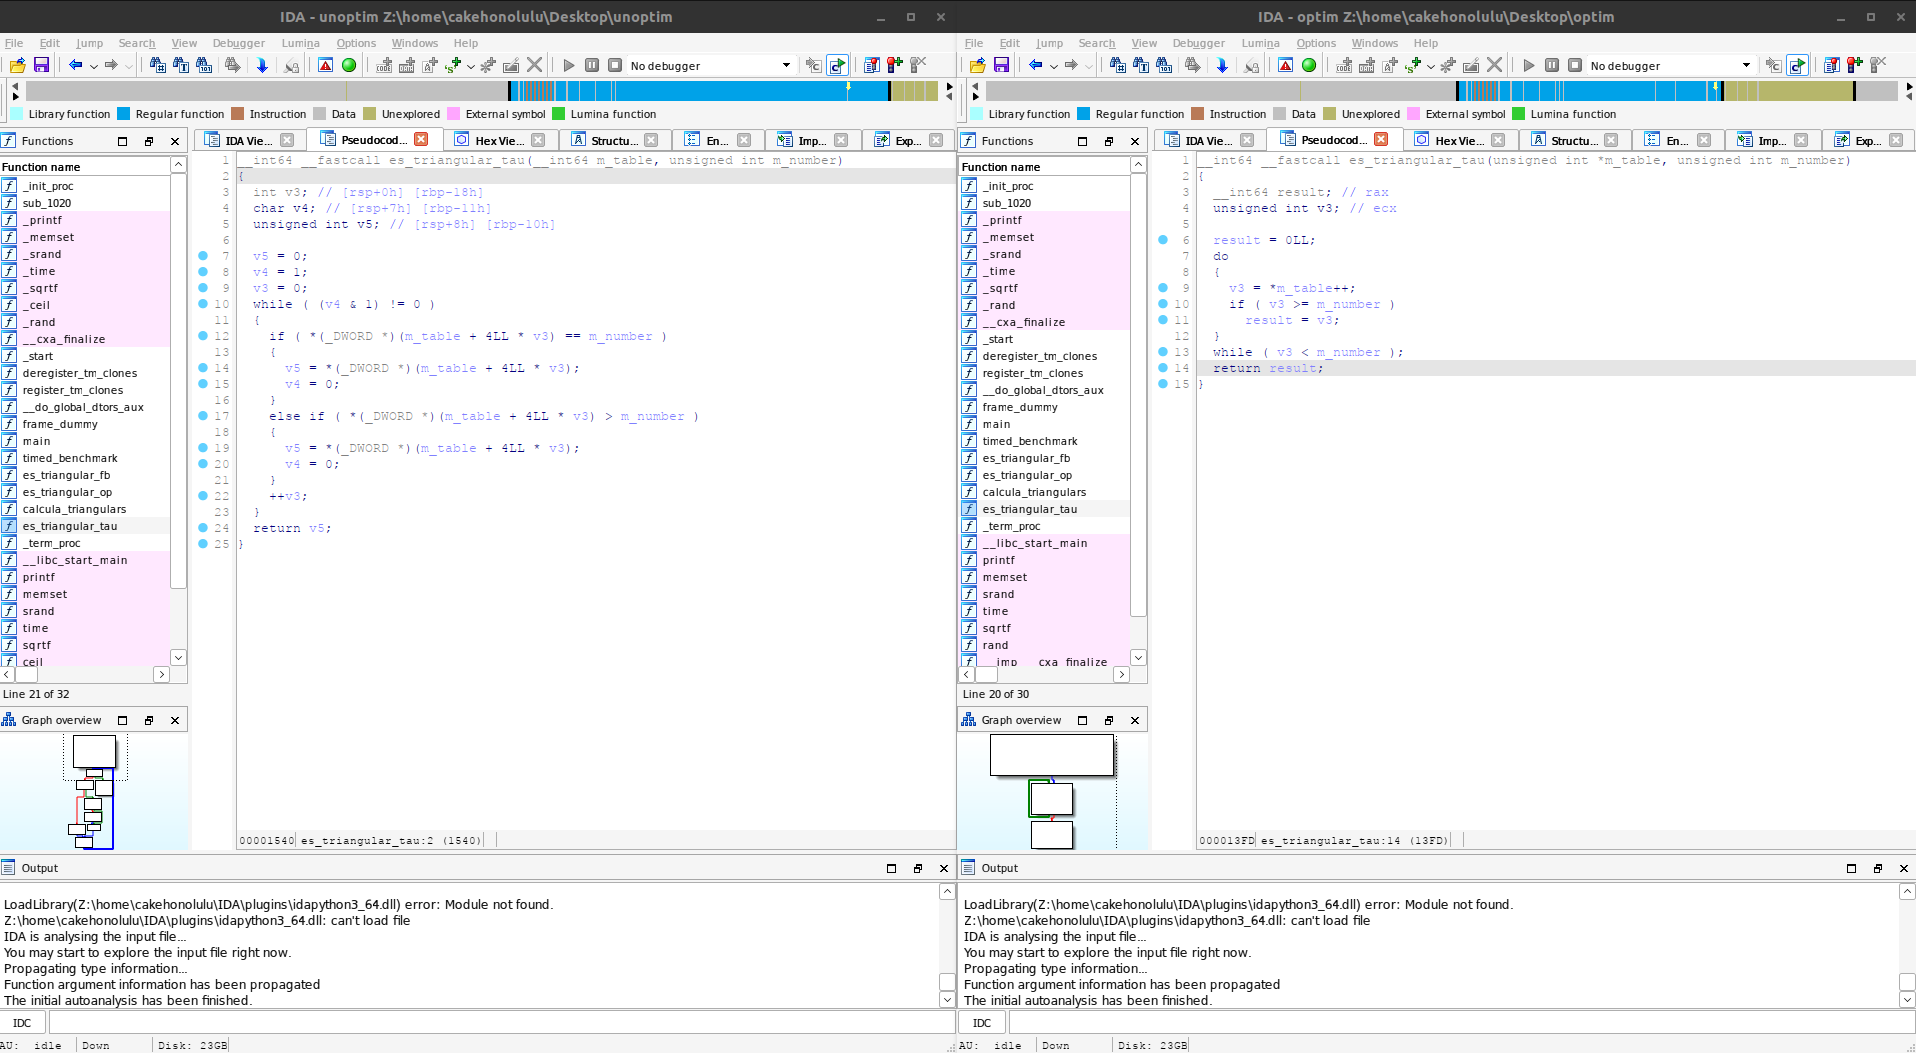
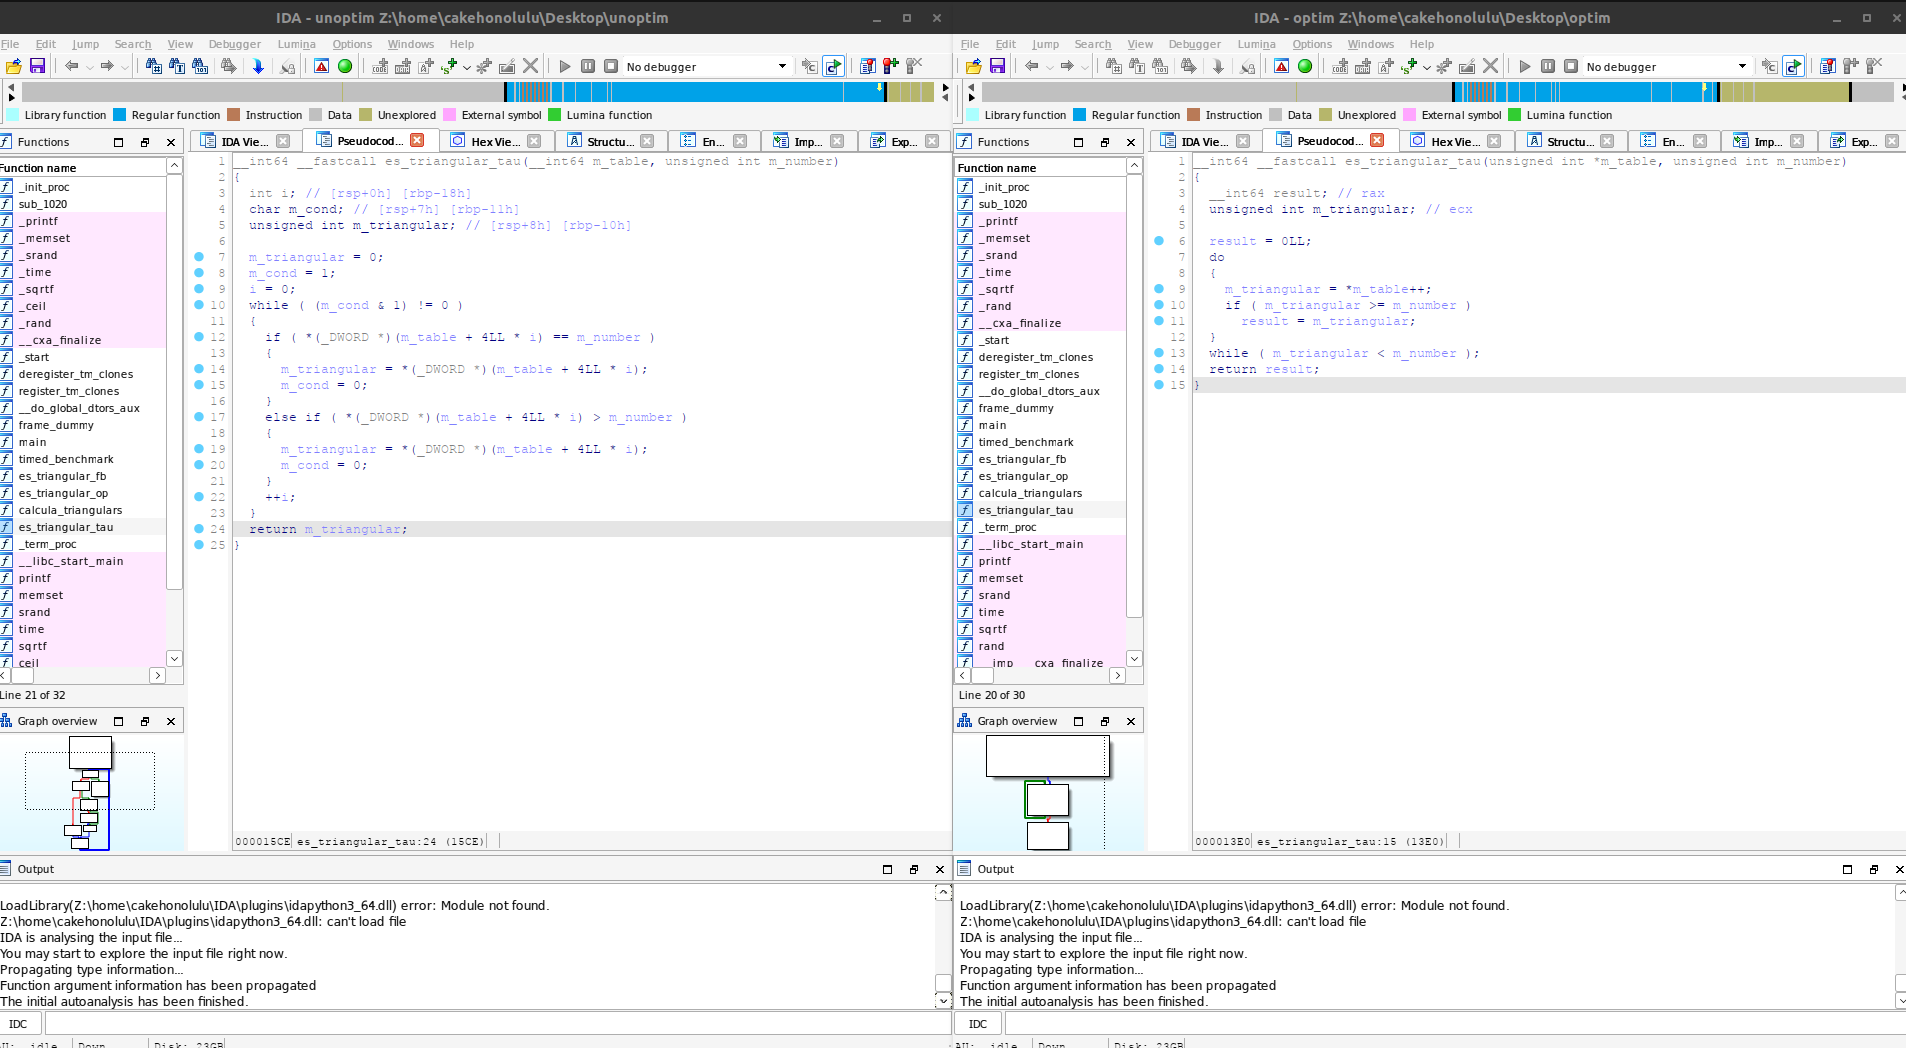
FProgII/L3-4: Unsquashed

Changed region(s): [[0.0, 0.0, 1.0, 1.0], [0.9906, 0.0, 1.0, 0.0305], [0.0929, 0.6107, 0.1238, 0.6412]]

diff --git a/FProgII/L3-4/lab2fp34.c b/FProgII/L3-4/lab2fp34.c
@@ -36,6 +36,7 @@ but this is probably going to be compiled on an older (And non-clang) compiler s
 int main()
 {
 #ifdef BENCHMARK
+	int i = 0;
 #ifdef EXTERNAL_TIME
 #ifdef TABLE
 	unsigned int m_table[P] = {0};
@@ -79,7 +80,7 @@ int main()
 #else
 
 #ifdef BRUTEFORCE
-	for (int i = 0; i < N_VEGADES; i++)
+	for (i = 0; i < N_VEGADES; i++)
 	{
 		srand(time(0));
 		es_triangular_fb(rand() % ((UINT32_MAX + 1) - 1) + 1);
@@ -87,7 +88,7 @@ int main()
 #endif
 
 #ifdef OPTIMAL
-	for (int i = 0; i < N_VEGADES; i++)
+	for (i = 0; i < N_VEGADES; i++)
 	{
 		srand(time(0));
 		es_triangular_op(rand() % ((UINT32_MAX + 1) - 1) + 1);
@@ -97,7 +98,7 @@ int main()
 #ifdef TABLE
 	calcula_triangulars(m_table);
 
-	for (int i = 0; i < N_VEGADES; i++)
+	for (i = 0; i < N_VEGADES; i++)
 	{
 		srand(time(0));
 		es_triangular_tau(m_table, rand() % ((UINT32_MAX + 1) - 1) + 1);

diff --git a/FProgII/L3-4/benchmark.c b/FProgII/L3-4/benchmark.c
@@ -7,10 +7,11 @@
 void timed_benchmark()
 {
 	unsigned int m_table[P] = {0};
+	int i = 0;
 	time_t m_end = time(NULL);
 	time_t m_start = time(NULL);
 
-	for (int i = 0; i < N_VEGADES; i++)
+	for (i = 0; i < N_VEGADES; i++)
 	{
 		srand(time(0));
 		es_triangular_fb(rand() % ((UINT32_MAX + 1) - 1) + 1);
@@ -22,7 +23,7 @@ void timed_benchmark()
 
 	m_start = time(NULL);
 
-	for (int i = 0; i < N_VEGADES; i++)
+	for (i = 0; i < N_VEGADES; i++)
 	{
 		srand(time(0));
 		es_triangular_op(rand() % ((UINT32_MAX + 1) - 1) + 1);
@@ -36,7 +37,7 @@ void timed_benchmark()
 
 	calcula_triangulars(m_table);
 
-	for (int i = 0; i < N_VEGADES; i++)
+	for (i = 0; i < N_VEGADES; i++)
 	{
 		srand(time(0));
 		es_triangular_tau(m_table, rand() % ((UINT32_MAX + 1) - 1) + 1);
